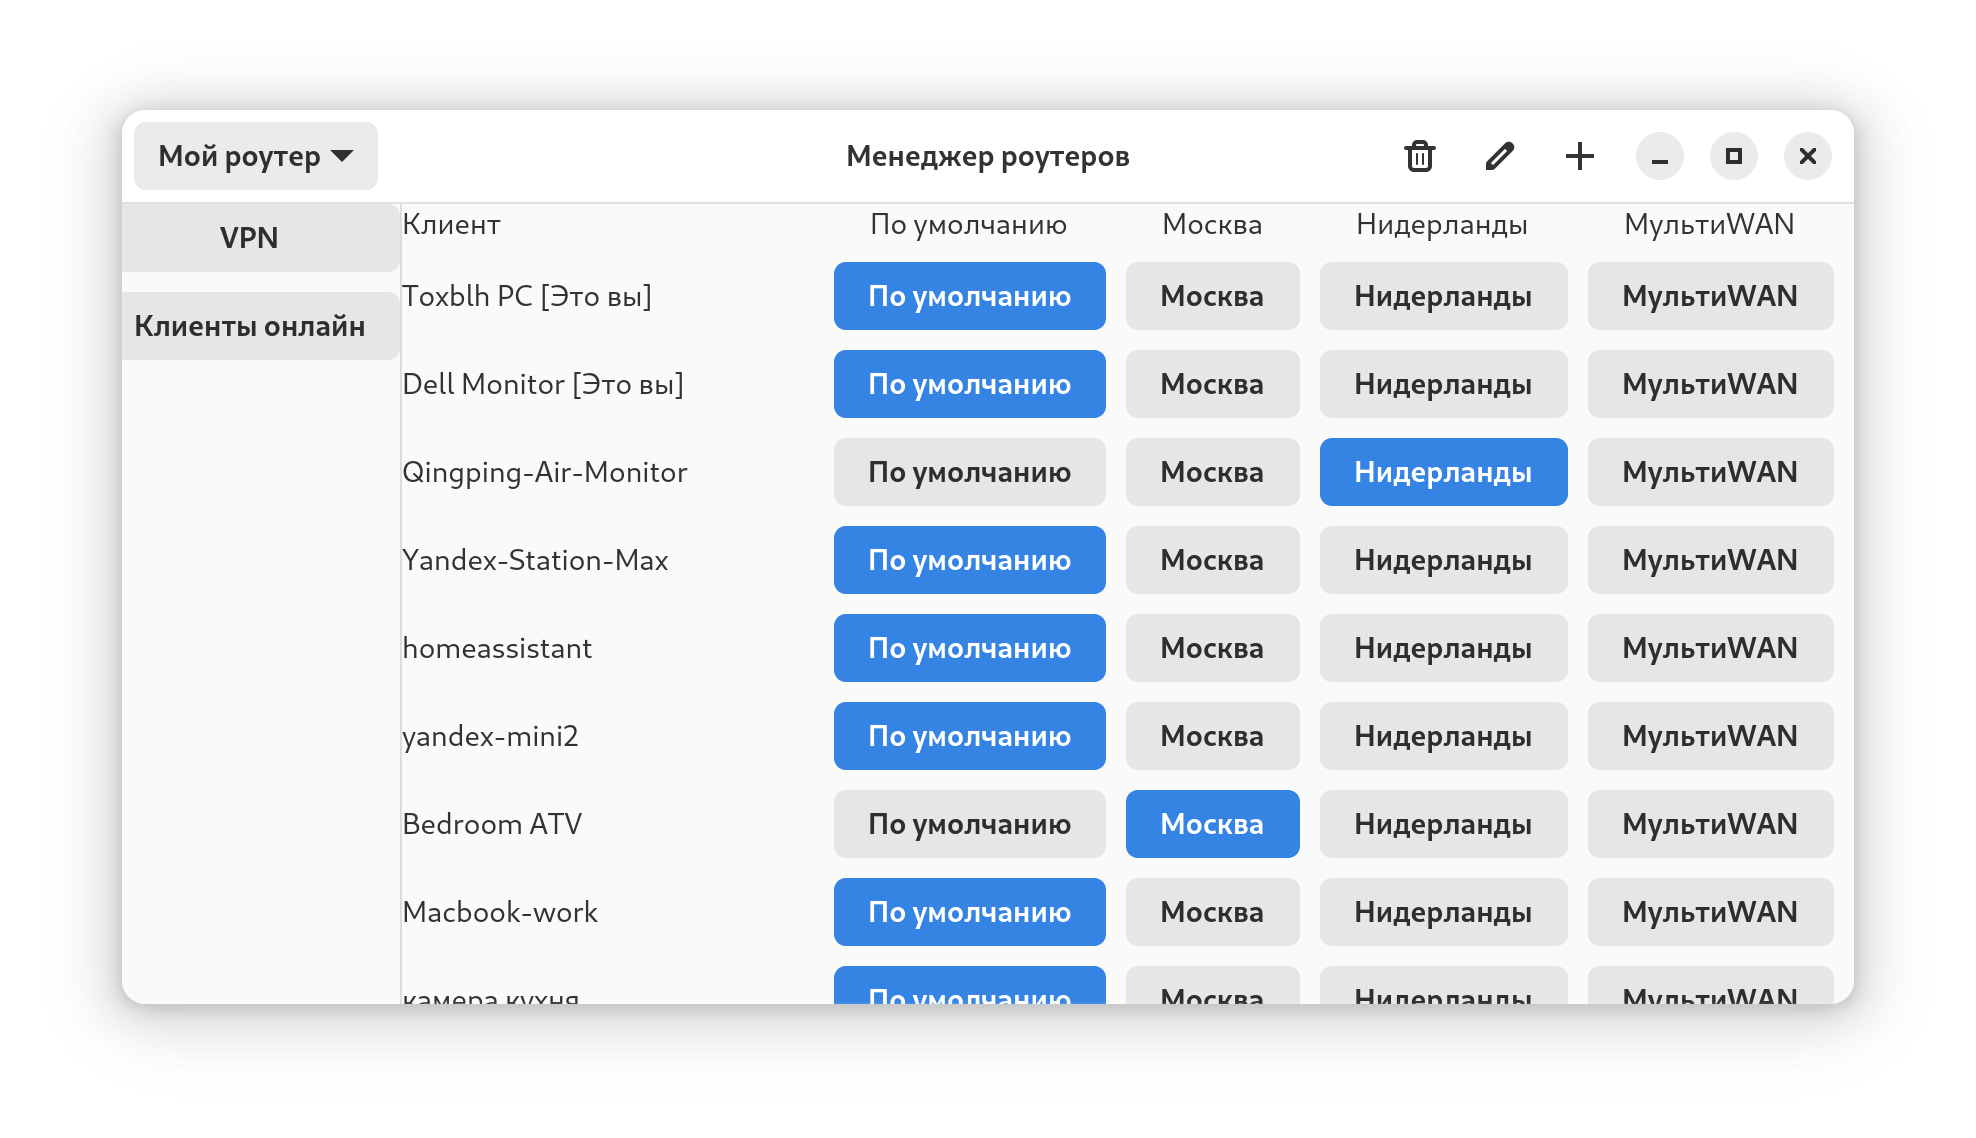
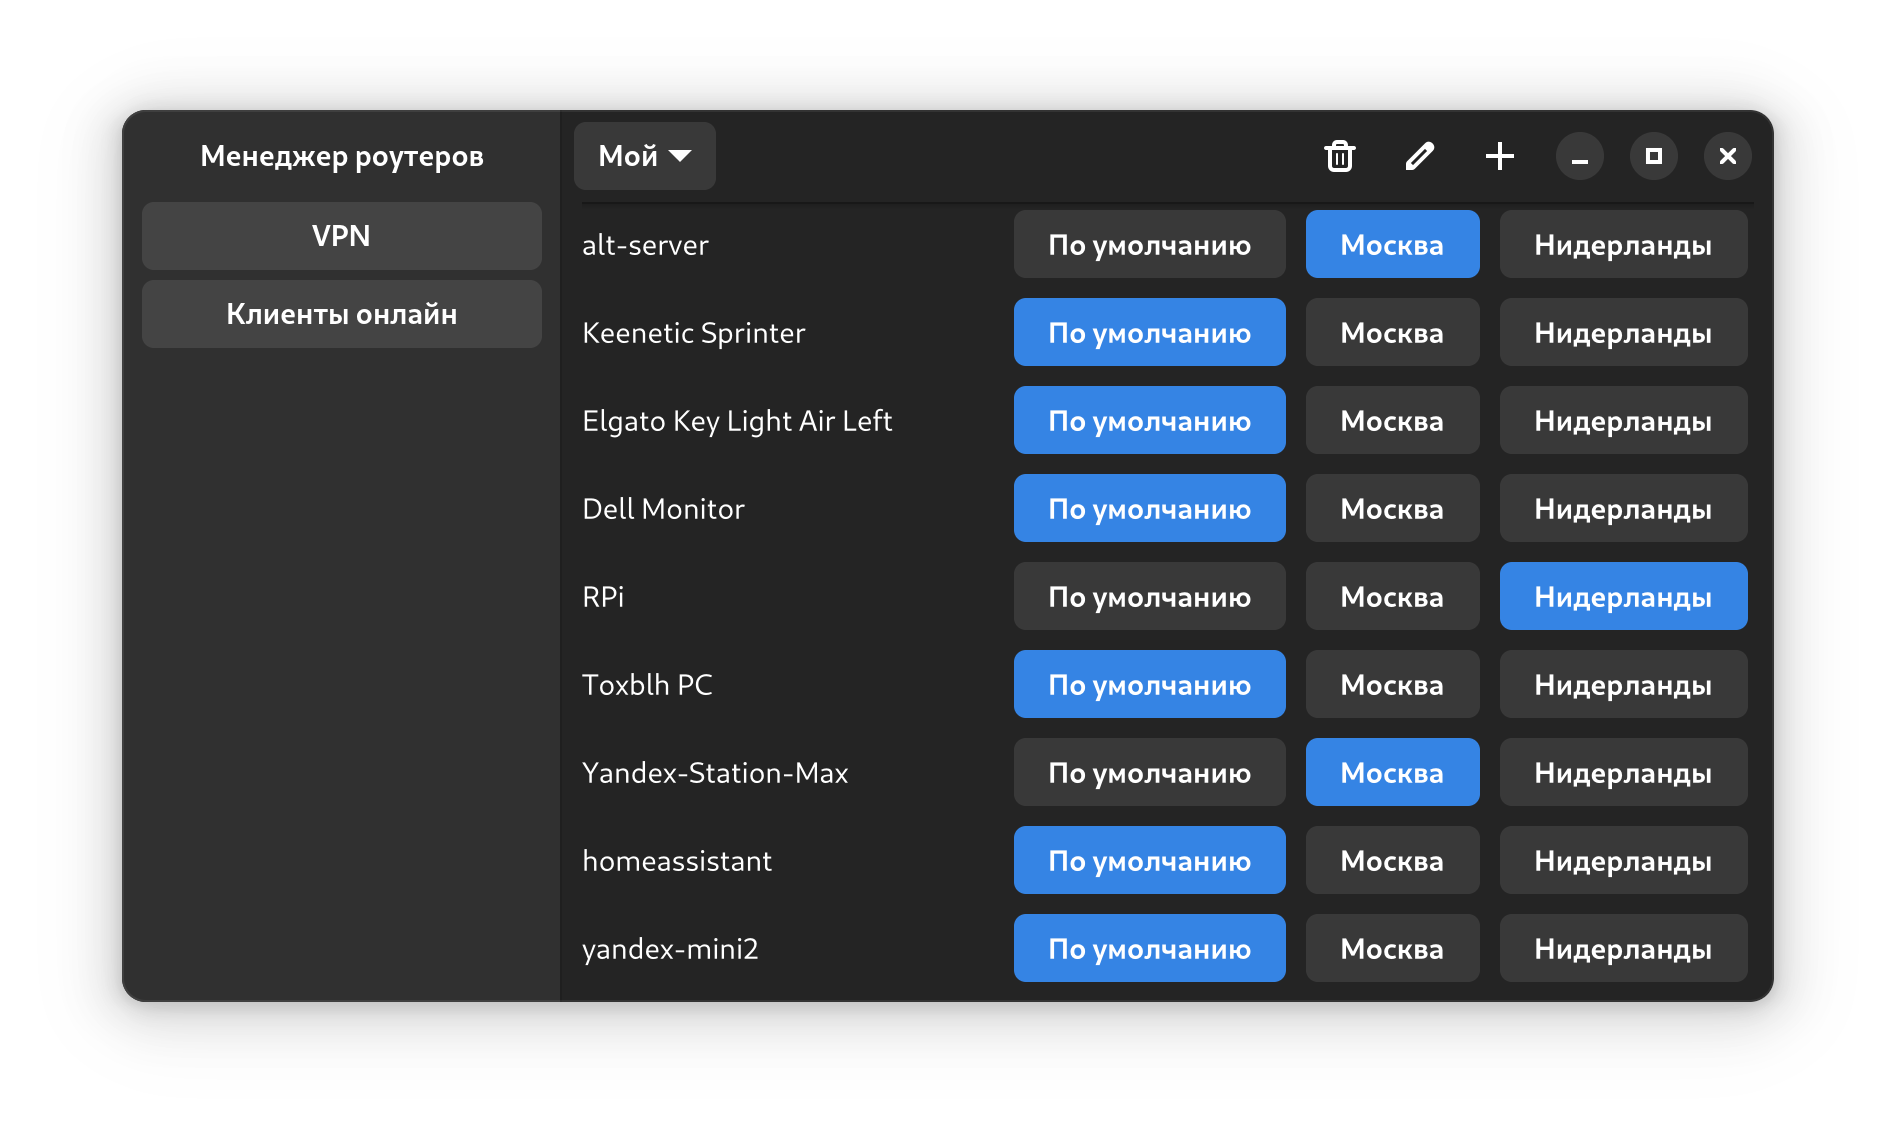
feat: new design of main window

diff --git a/router_manager.py b/router_manager.py
@@ -29,24 +29,40 @@ class RouterManager(Adw.ApplicationWindow):
         self.current_router = None
 
         # Основная компоновка
-        self.main_box = Gtk.Box(orientation=Gtk.Orientation.VERTICAL)
-        self.set_content(self.main_box)
+        self.main_window = Adw.NavigationSplitView()
+        self.main_window.set_max_sidebar_width(220)
+        self.main_window.set_min_sidebar_width(220)
+        self.set_content(self.main_window)
+        
+        # Левая часть
+        self.left = Adw.ToolbarView()
+        self.left.add_top_bar(Adw.HeaderBar())
+        
+        # Боковая панель
+        self.side_panel = Gtk.Box(orientation=Gtk.Orientation.VERTICAL, spacing=5)
+        self.left.set_content(self.side_panel)
+
+        self.sidebar = Adw.NavigationPage()
+        self.sidebar.set_title("Менеджер роутеров")
+        self.sidebar.set_child(self.left)
+        
+        # Основная область контента
+        self.main_content = Adw.ViewStack()
+        
+        # Правая часть
+        self.right = Adw.ToolbarView()
+        self.right.set_content(self.main_content)
+
+        self.main_box = Adw.NavigationPage()
+        self.main_box.set_child(self.right)
 
         # Заголовок окна
         self.create_header_bar()
 
         # Разделение на боковую панель и основной контент
-        self.paned = Gtk.Paned.new(Gtk.Orientation.HORIZONTAL)
-        self.main_box.append(self.paned)
-
-        # Боковая панель
-        self.side_panel = Gtk.Box(orientation=Gtk.Orientation.VERTICAL, spacing=10)
-        self.paned.set_start_child(self.side_panel)
-
-        # Основная область контента
-        self.main_content = Adw.ViewStack()
-        self.paned.set_end_child(self.main_content)
-
+        self.main_window.set_sidebar(self.sidebar)
+        self.main_window.set_content(self.main_box)
+        
         # Добавляем кнопки в боковую панель
         self.add_side_panel_buttons()
 
@@ -72,7 +88,7 @@ class RouterManager(Adw.ApplicationWindow):
 
     def create_header_bar(self):
         header_bar = Adw.HeaderBar()
-        self.main_box.append(header_bar)
+        self.right.add_top_bar(header_bar)
 
         # Выпадающий список роутеров
         self.router_combo = Gtk.ComboBoxText()
@@ -101,11 +117,15 @@ class RouterManager(Adw.ApplicationWindow):
         # Кнопка VPN
         vpn_button = Gtk.Button(label="VPN")
         vpn_button.connect("clicked", self.on_vpn_button_clicked)
+        vpn_button.set_margin_start(10)
+        vpn_button.set_margin_end(10)
         self.side_panel.append(vpn_button)
 
         # Кнопка Онлайн клиенты
         clients_button = Gtk.Button(label="Клиенты онлайн")
         clients_button.connect("clicked", self.on_clients_button_clicked)
+        clients_button.set_margin_start(10)
+        clients_button.set_margin_end(10)
         self.side_panel.append(clients_button)
 
         # Кнопка Быстрые настройки
@@ -244,6 +264,8 @@ class RouterManager(Adw.ApplicationWindow):
         scrolled_window = Gtk.ScrolledWindow()
         scrolled_window.set_policy(Gtk.PolicyType.AUTOMATIC, Gtk.PolicyType.AUTOMATIC)
         scrolled_window.set_min_content_height(400)
+        scrolled_window.set_margin_start(10)
+        scrolled_window.set_margin_end(10)
         self.vpn_page.append(scrolled_window)
 
         # Создаем Grid
@@ -251,22 +273,10 @@ class RouterManager(Adw.ApplicationWindow):
         grid.set_column_homogeneous(False)
         scrolled_window.set_child(grid)
 
-        # Заголовки столбцов
-        name_header = Gtk.Label(label="Клиент")
-        name_header.set_xalign(0)
-        grid.attach(name_header, 0, 0, 1, 1)
-
-        default_header = Gtk.Label(label="По умолчанию")
-        grid.attach(default_header, 1, 0, 1, 1)
-
         # Добавляем заголовки для каждой политики
         policy_names = []
         for policy_name, policy_info in policies.items():
             policy_names.append((policy_name, policy_info.get("description", policy_name)))
-
-        for idx, (policy_name, policy_desc) in enumerate(policy_names):
-            header = Gtk.Label(label=policy_desc)
-            grid.attach(header, idx + 2, 0, 1, 1)
 
         # Отображение клиентов в таблице
         for row_idx, client in enumerate(online_clients, start=1):
@@ -282,6 +292,8 @@ class RouterManager(Adw.ApplicationWindow):
             name_text = f"{client_name}"
             if is_current_pc:
                 name_text += " [Это вы]"
+            if client.get("deny", True):
+                name_text += " (x)"
             name_label = Gtk.Label(label=name_text)
             name_label.set_xalign(0)
             grid.attach(name_label, 0, row_idx, 1, 1)
